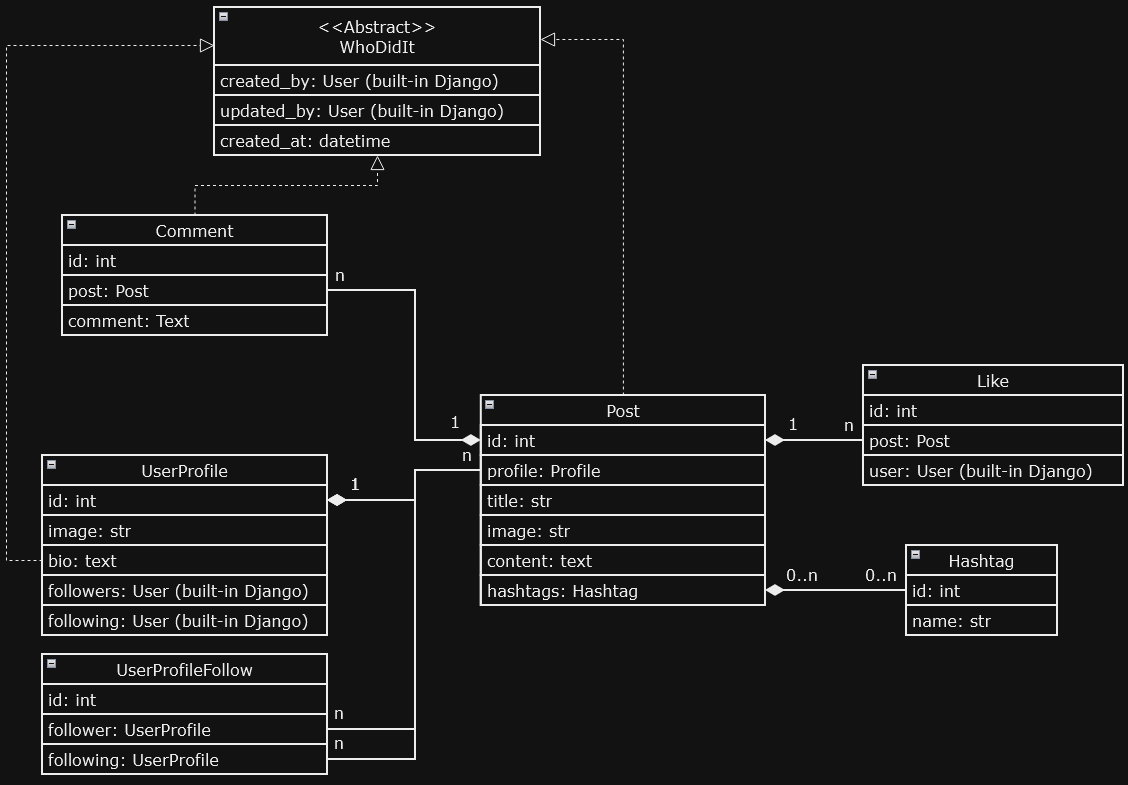
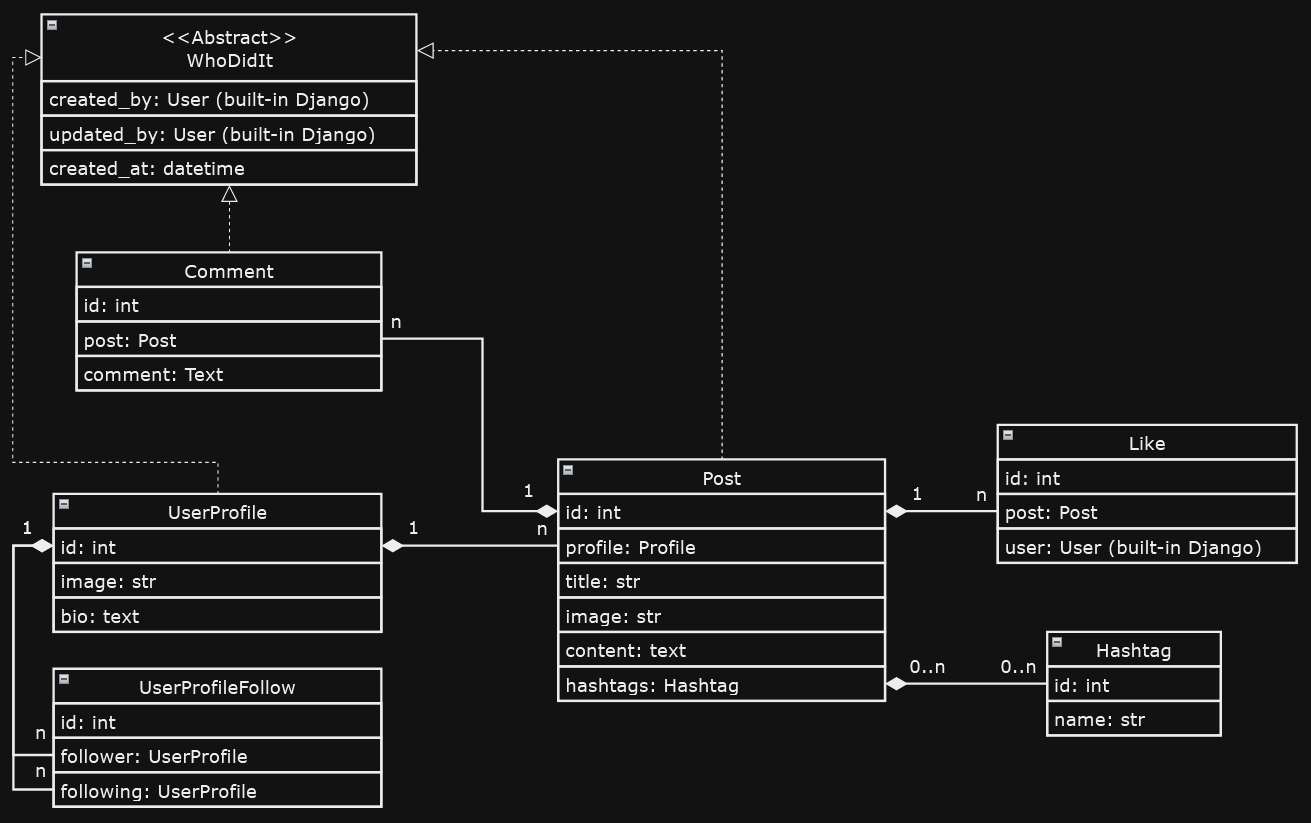
Update README.md

Changed region(s): [[0.0, 0.0, 1.0, 1.0], [0.3413, 0.9172, 0.3723, 0.9783], [0.0, 0.0611, 0.031, 0.0917]]

diff --git a/README.md b/README.md
@@ -1,1 +1,70 @@
 # Social Media API
+> **Welcome to the Social Media API** 
+
+###### The API allows users to create profiles, follow other users, create and view posts, manage likes and comments, and perform basic social media actions.
+
+## Key Features
+
+* **Authentication:** Users undergo secure registration and login processes, receiving JWTs for authenticated access.
+* **User Profile Management:** Users can create and update their profiles, incorporating details such as profile pictures, bios, and other relevant information.
+* **Follow/Unfollow System:** Establish connections by following and unfollowing other users. Track the list of followers and those being followed.
+* **Post Creation and Retrieval:** Users can craft text-based posts and optionally attach images. Retrieve personal posts and those from followed users.
+* **Likes and Comments:** Users have the option to like and unlike posts, view their liked posts, and engage with comments on posts.
+* **Scheduled Post Creation:** Schedule post creation using Celery, allowing users to select the time for post publication.
+* **API Permissions:** Strictly enforce permissions, ensuring that only authenticated users can create posts, like content, and follow/unfollow users. Users retain control over their own posts, comments, and profiles.
+* **API Documentation:** Thorough documentation, available through the Swagger UI, provides clear instructions on each endpoint. Sample API requests and responses are included.
+## DB structure 
+
+![DB structure](DB-structure.png)
+
+## Installation
+### Using GitHub
+
+- Ensure you have `Python 3` installed.
+- Install `PostgreSQL` and create db.
+- Clone repository to your local machine and change working directory:
+
+```bash
+git clone https://github.com/o-davydova/Social-Media-API
+cd Social-Media-API
+```
+- Create venv & Activate it:
+`python3 -m venv venv`
+`source venv/Scripts/activate`
+
+- Install requirements:
+`pip install -r requirements.txt`
+
+- Create new Postgres DB & User
+- Set required data:
+```
+set DJANGO_SECRET_KEY=<your secret key>
+set DJANGO_DEBUG=<your debug value>
+set DJANGO_ALLOWED_HOSTS=<your allowed hosts>
+
+set POSTGRES_ENGINE=<your Postgres engine>
+set POSTGRES_HOST=<your Postgres host>
+set POSTGRES_DB=<your Postgres database>
+set POSTGRES_USER=<your Postgres user>
+set POSTGRES_PASSWORD=<your Postgres password>
+
+set CELERY_BROKER=<your Celery broker URL>
+set CELERY_BACKEND=<your Celery result backend>
+```
+- Run migrations:`python manage.py migrate`
+- Run Redis Server: `docker run -d -p 6379:6379 redis`
+- Run Celery worker for task handling: `celery -A social_media worker -l INFO`
+- Run app: `python manage.py runserver`
+
+### Run with docker
+
+`Docker` should be installed.
+
+```
+docker-compose build
+docker-compose up
+```
+
+## Getting access
+- create a user via **/api/user/register**
+- get access token via **/api/user/token**
